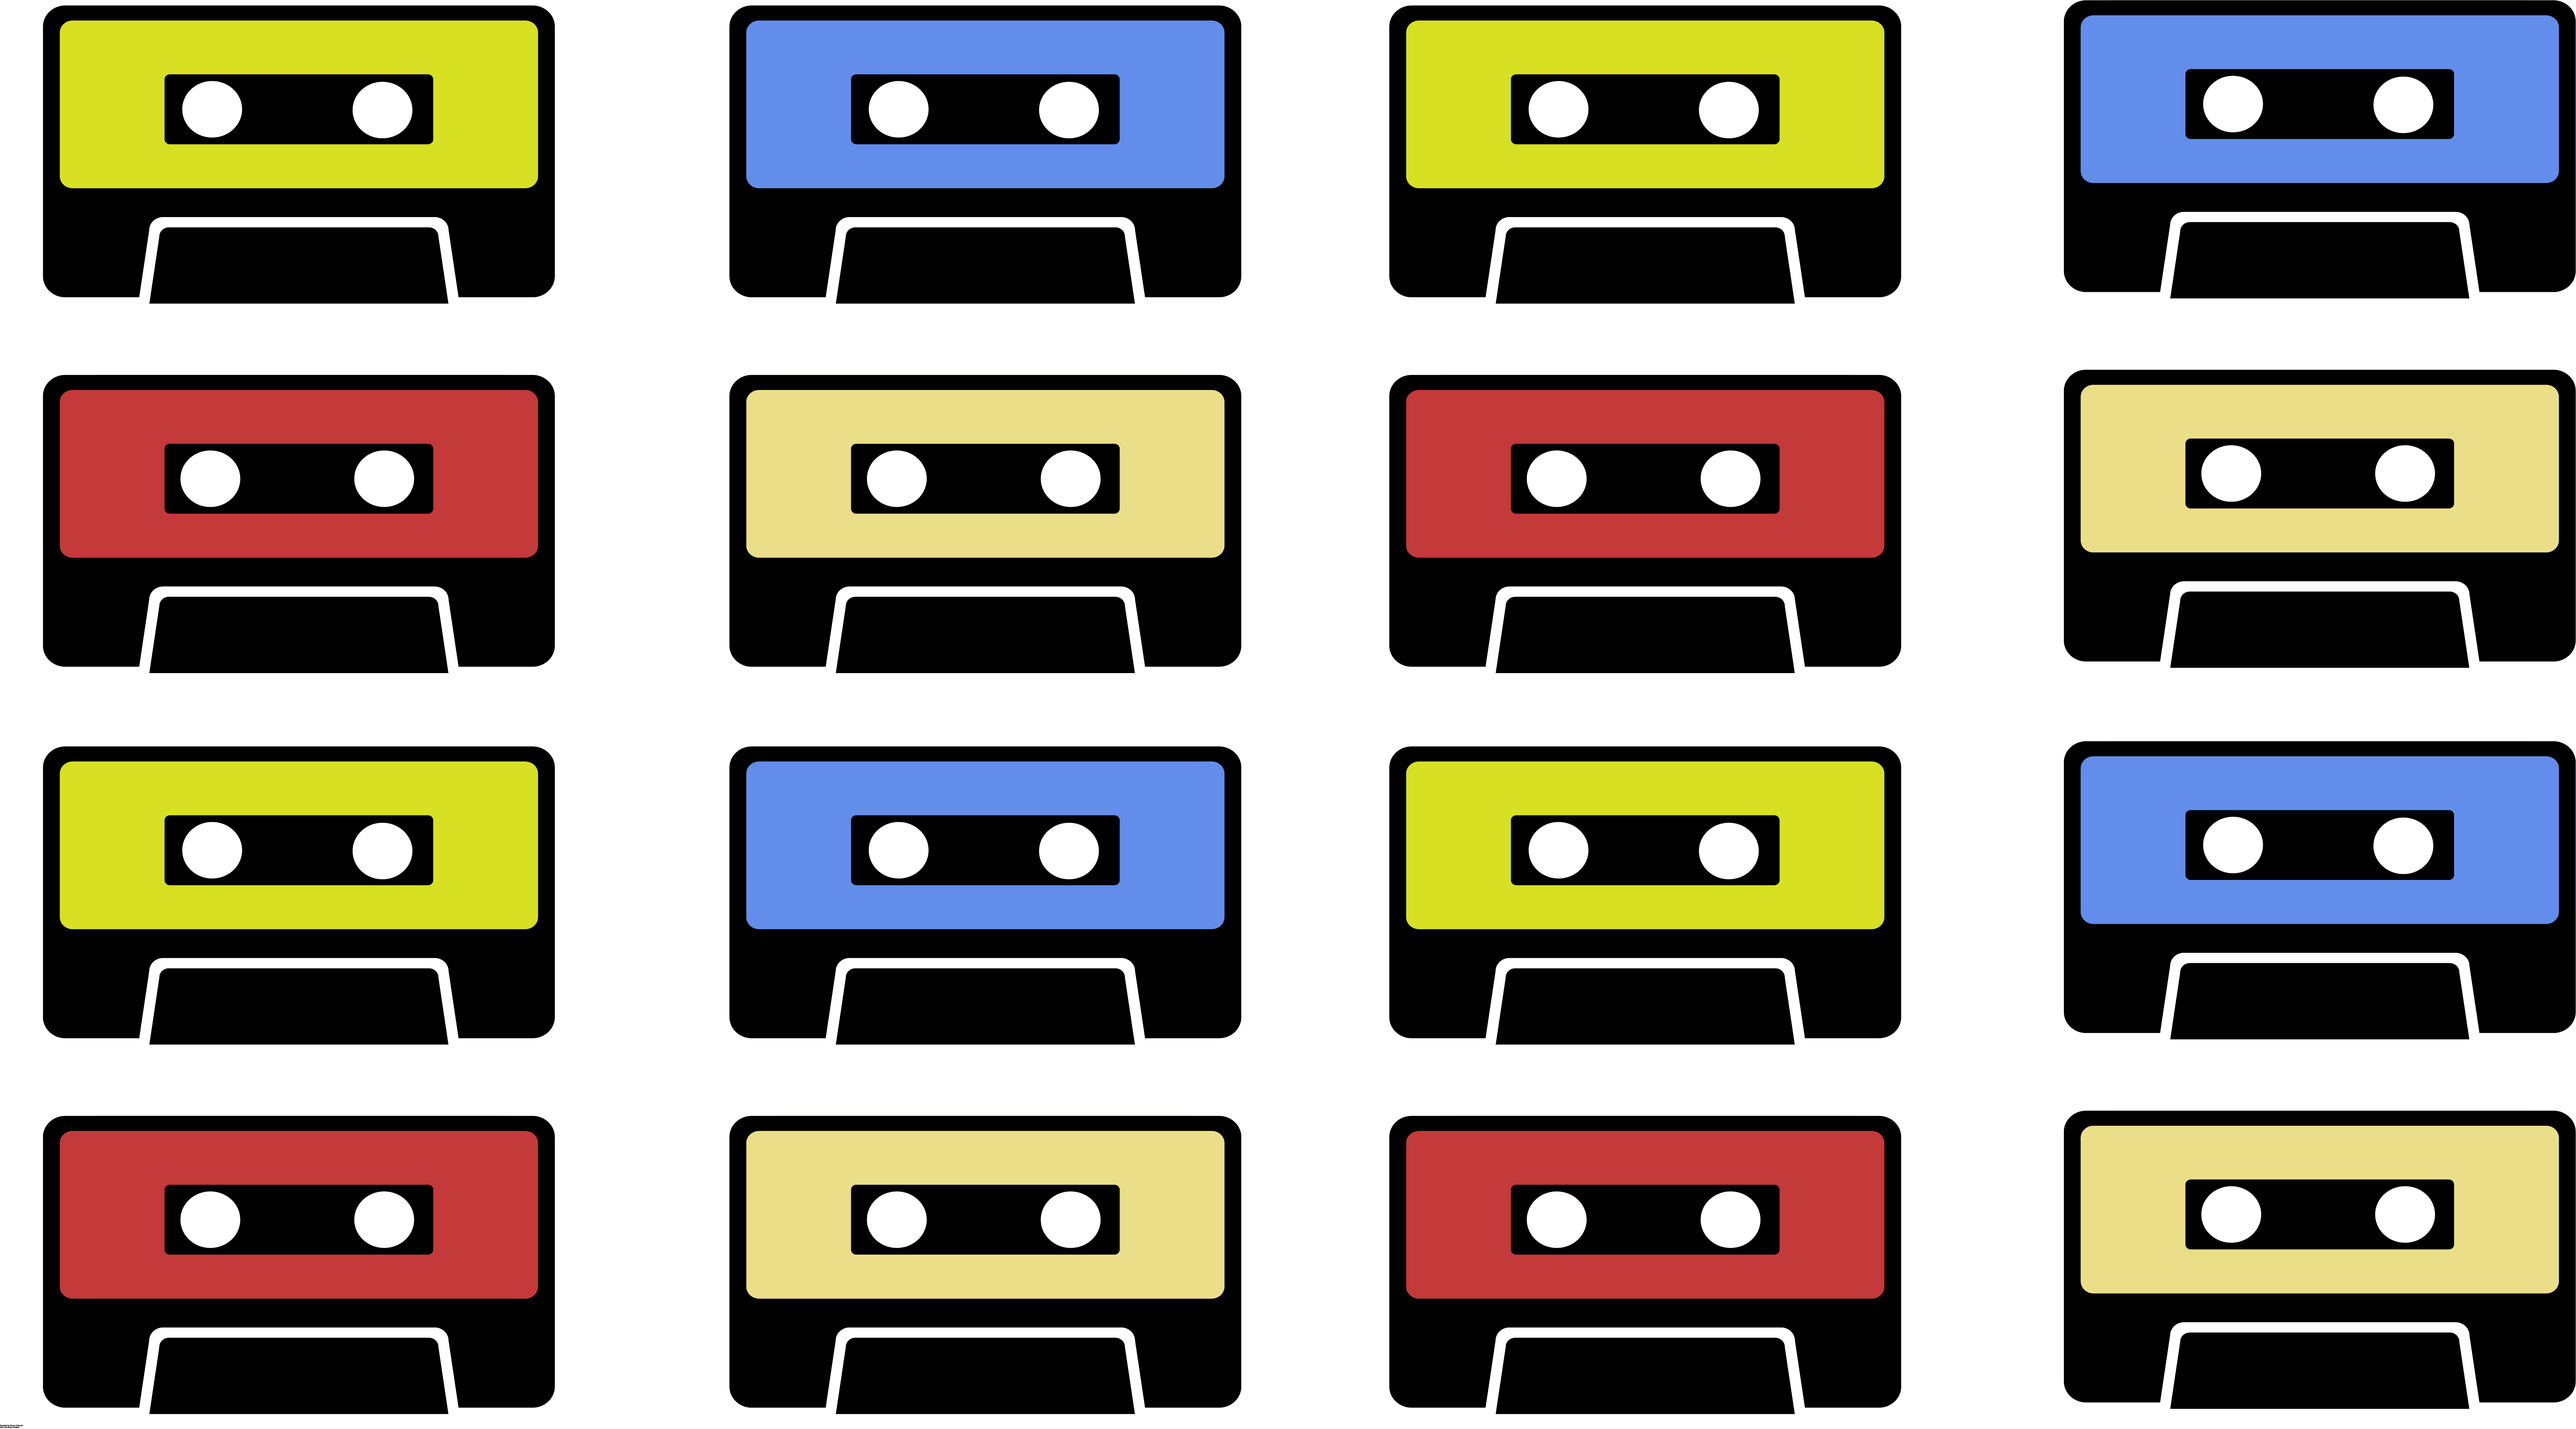
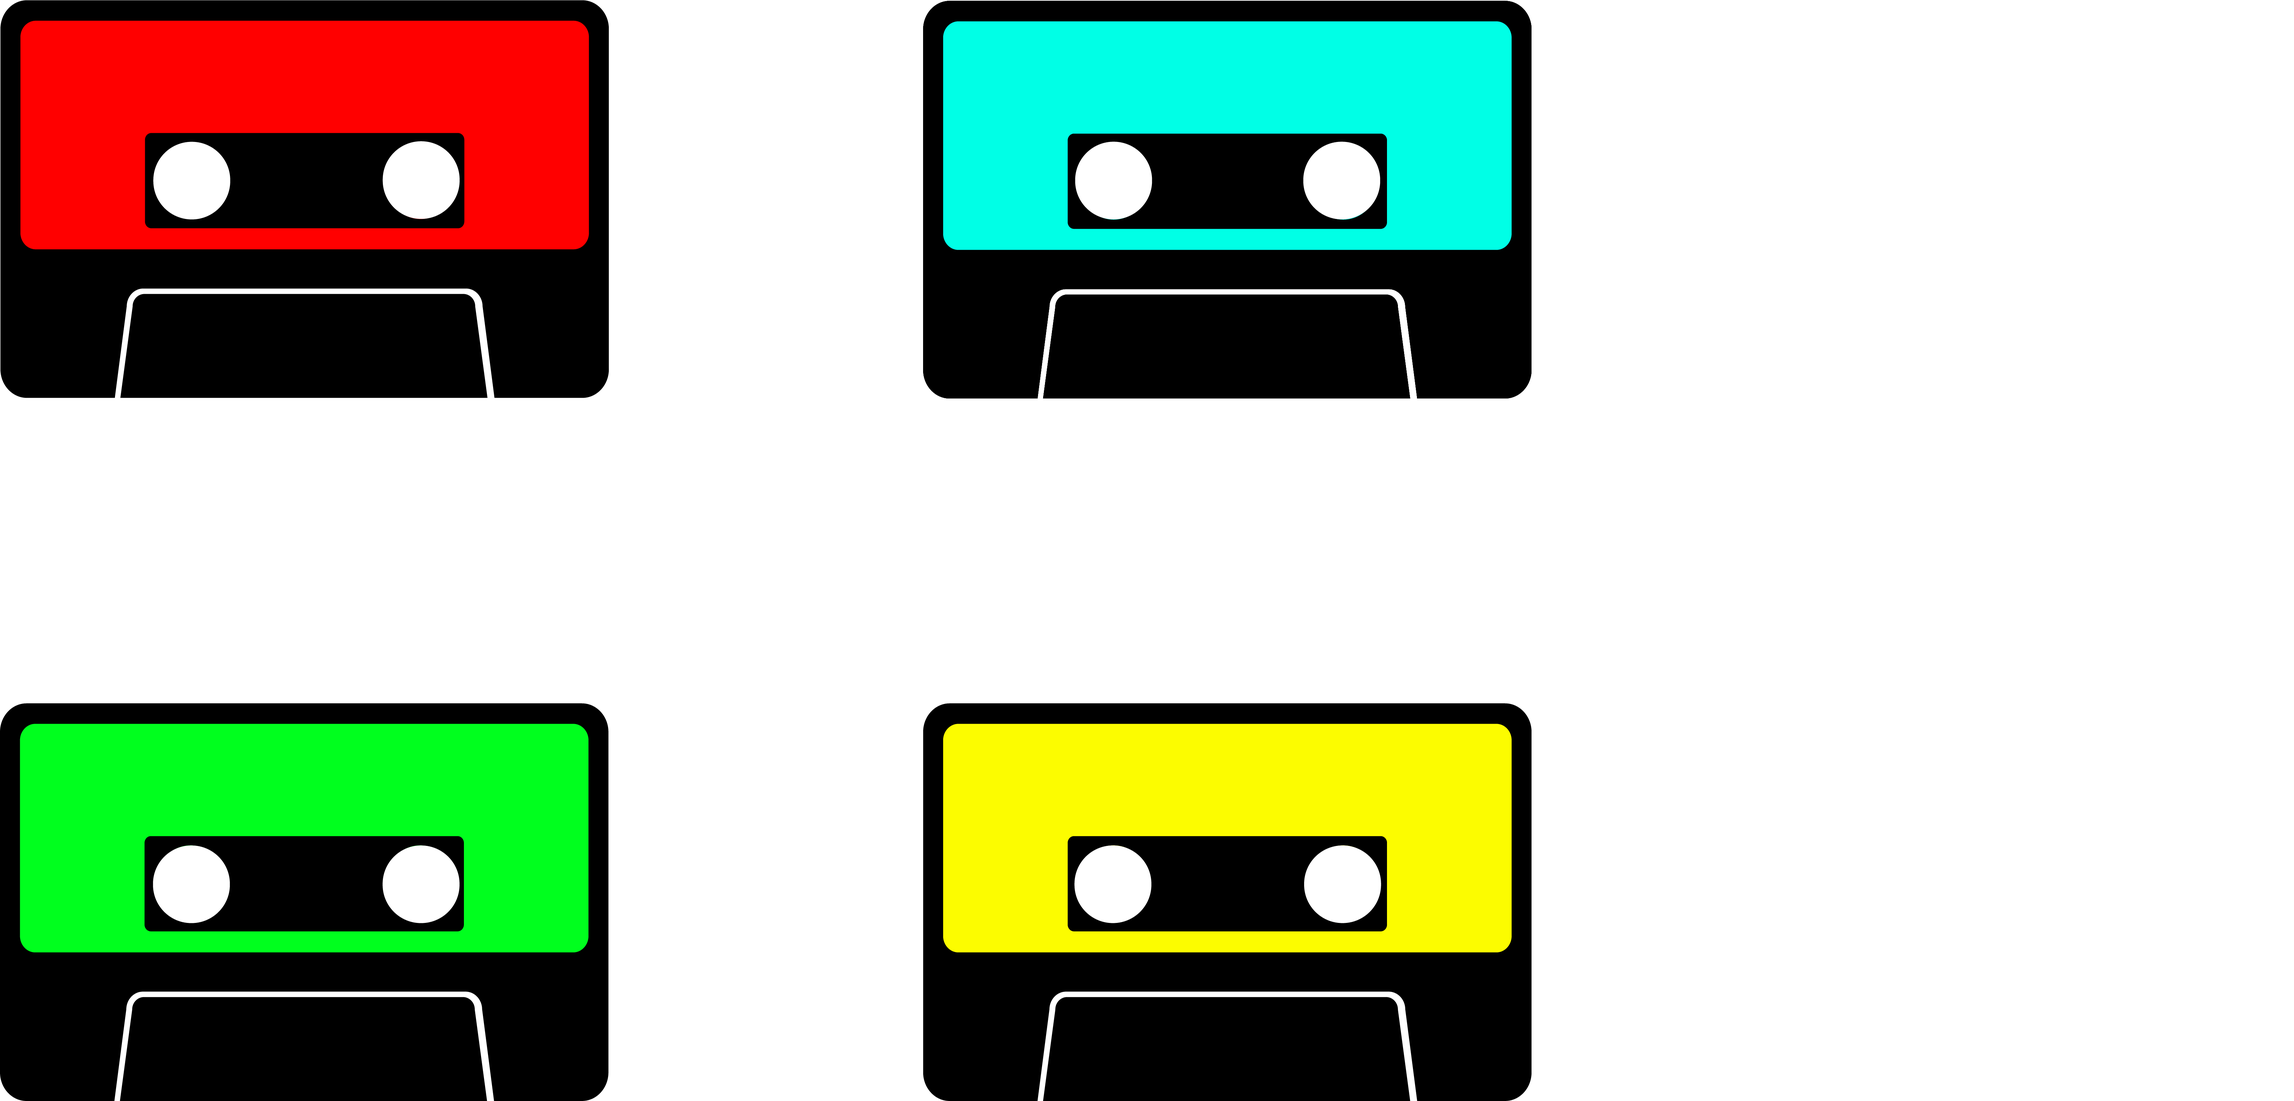
fixed cassette

diff --git a/src/App.css b/src/App.css
@@ -1,14 +1,14 @@
-@import url('https://fonts.googleapis.com/css2?family=Lora:wght@400;500&display=swap');
-@import url('https://fonts.googleapis.com/css2?family=Spectral:wght@400;500&display=swap');
+@import url("https://fonts.googleapis.com/css2?family=Lora:wght@400;500&display=swap");
+@import url("https://fonts.googleapis.com/css2?family=Spectral:wght@400;500&display=swap");
 
 body {
   text-align: left;
-  font-family: 'Lora', 'Spectral', 'Serif';
-  background-image: url('./assets/Cassette.png');
-  background-size: cover ;
-  color:#585858;
+  font-family: "Lora", "Spectral", "Serif";
+  background-image: url("./assets/Cassette.png");
+  background-size: 20%;
+  background-repeat: space;
 }
 
-h3{
+h3 {
   margin: 0;
 }
